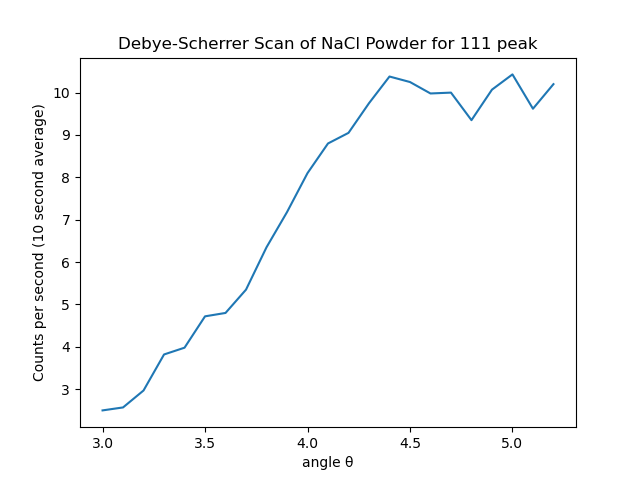
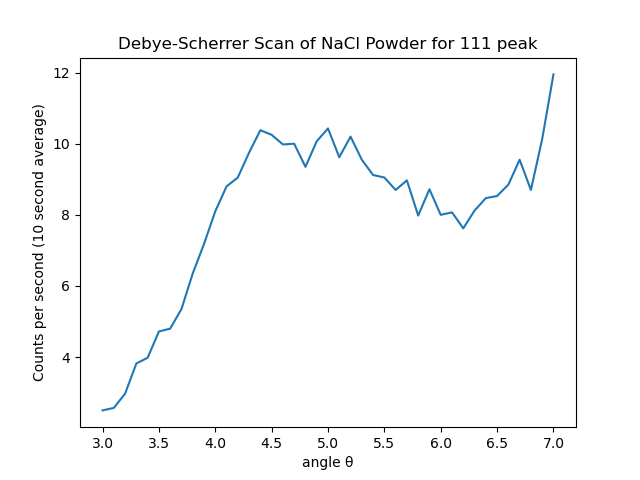
Fixed bug where not all of the 111 scan 2 data was being graphed

diff --git a/2-Structural_Characterisation_of_an_Unknown_Sample/deb_sher.py b/2-Structural_Characterisation_of_an_Unknown_Sample/deb_sher.py
@@ -1,9 +1,7 @@
-import numpy as np
 import matplotlib.pyplot as plt
 from pandas import read_csv
 from scipy.signal import find_peaks
-from scipy.optimize import curve_fit
-from math import ceil, sin, radians
+from math import isnan
 
 data1 = read_csv("NaCl_Powder_Scan_1.csv")
 angles1 = data1.get('&b / °').to_numpy()
@@ -12,6 +10,12 @@ scan1 = data1.get('R_0 / 1/s').to_numpy()
 data2 = read_csv("NaCl_Powder_111_Scan_2.csv")
 angles2 = data2.get('&b / °').to_numpy()
 scan2 = data2.get('R_0 / 1/s').to_numpy()
+scan3 = data2.get('R_1 / 1/s').to_numpy()
+
+scan2 = filter(lambda value: isnan(value) == False, scan2)
+scan3 = filter(lambda value: isnan(value) == False, scan3)
+
+scan_comb = [*scan2, *scan3]
 
 peaks_index = find_peaks(scan1, prominence=10, height=1, width=(2, 5))[0]
 peaks = angles1[peaks_index]
@@ -26,8 +30,10 @@ ax1.set_ylabel("Counts per second (10 second average)")
 ax1.legend(loc="upper right")
 plt1.savefig("DSs_NaCl.png")
 
+print(scan_comb)
+
 plt2, ax2 = plt.subplots()
-ax2.plot(angles2, scan2)
+ax2.plot(angles2, scan_comb)
 ax2.set_title("Debye-Scherrer Scan of NaCl Powder for 111 peak")
 ax2.set_xlabel("angle θ")
 ax2.set_ylabel("Counts per second (10 second average)")
